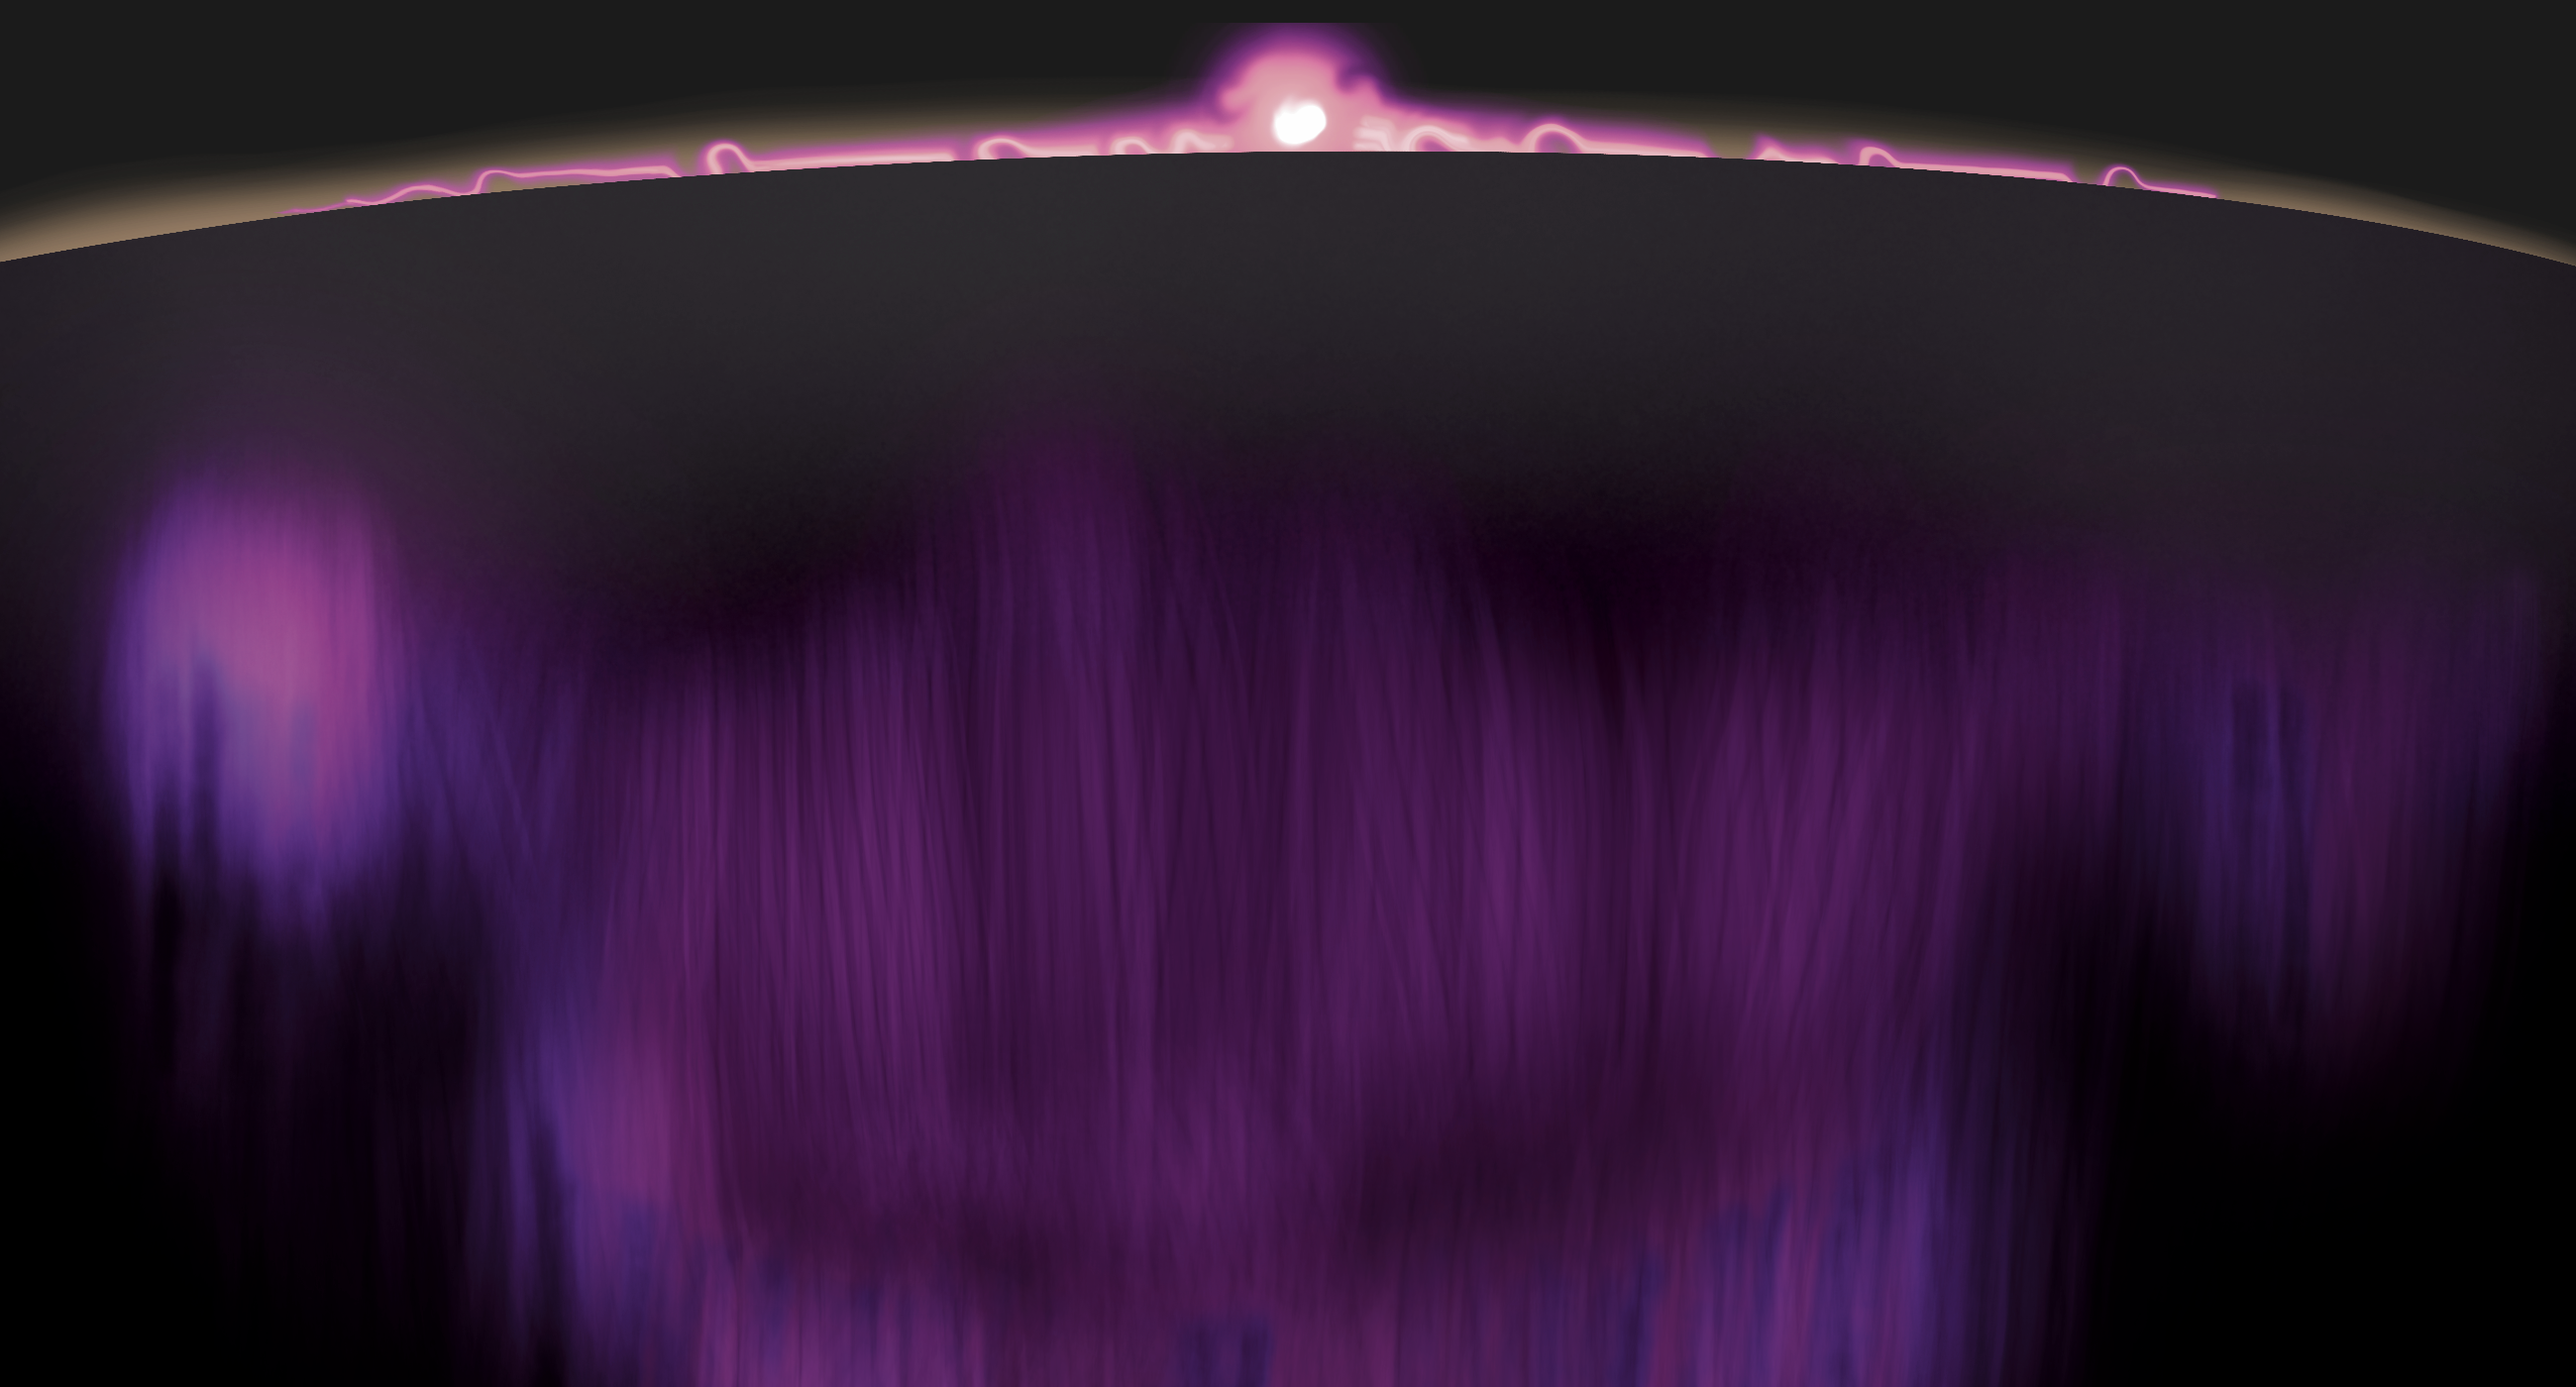
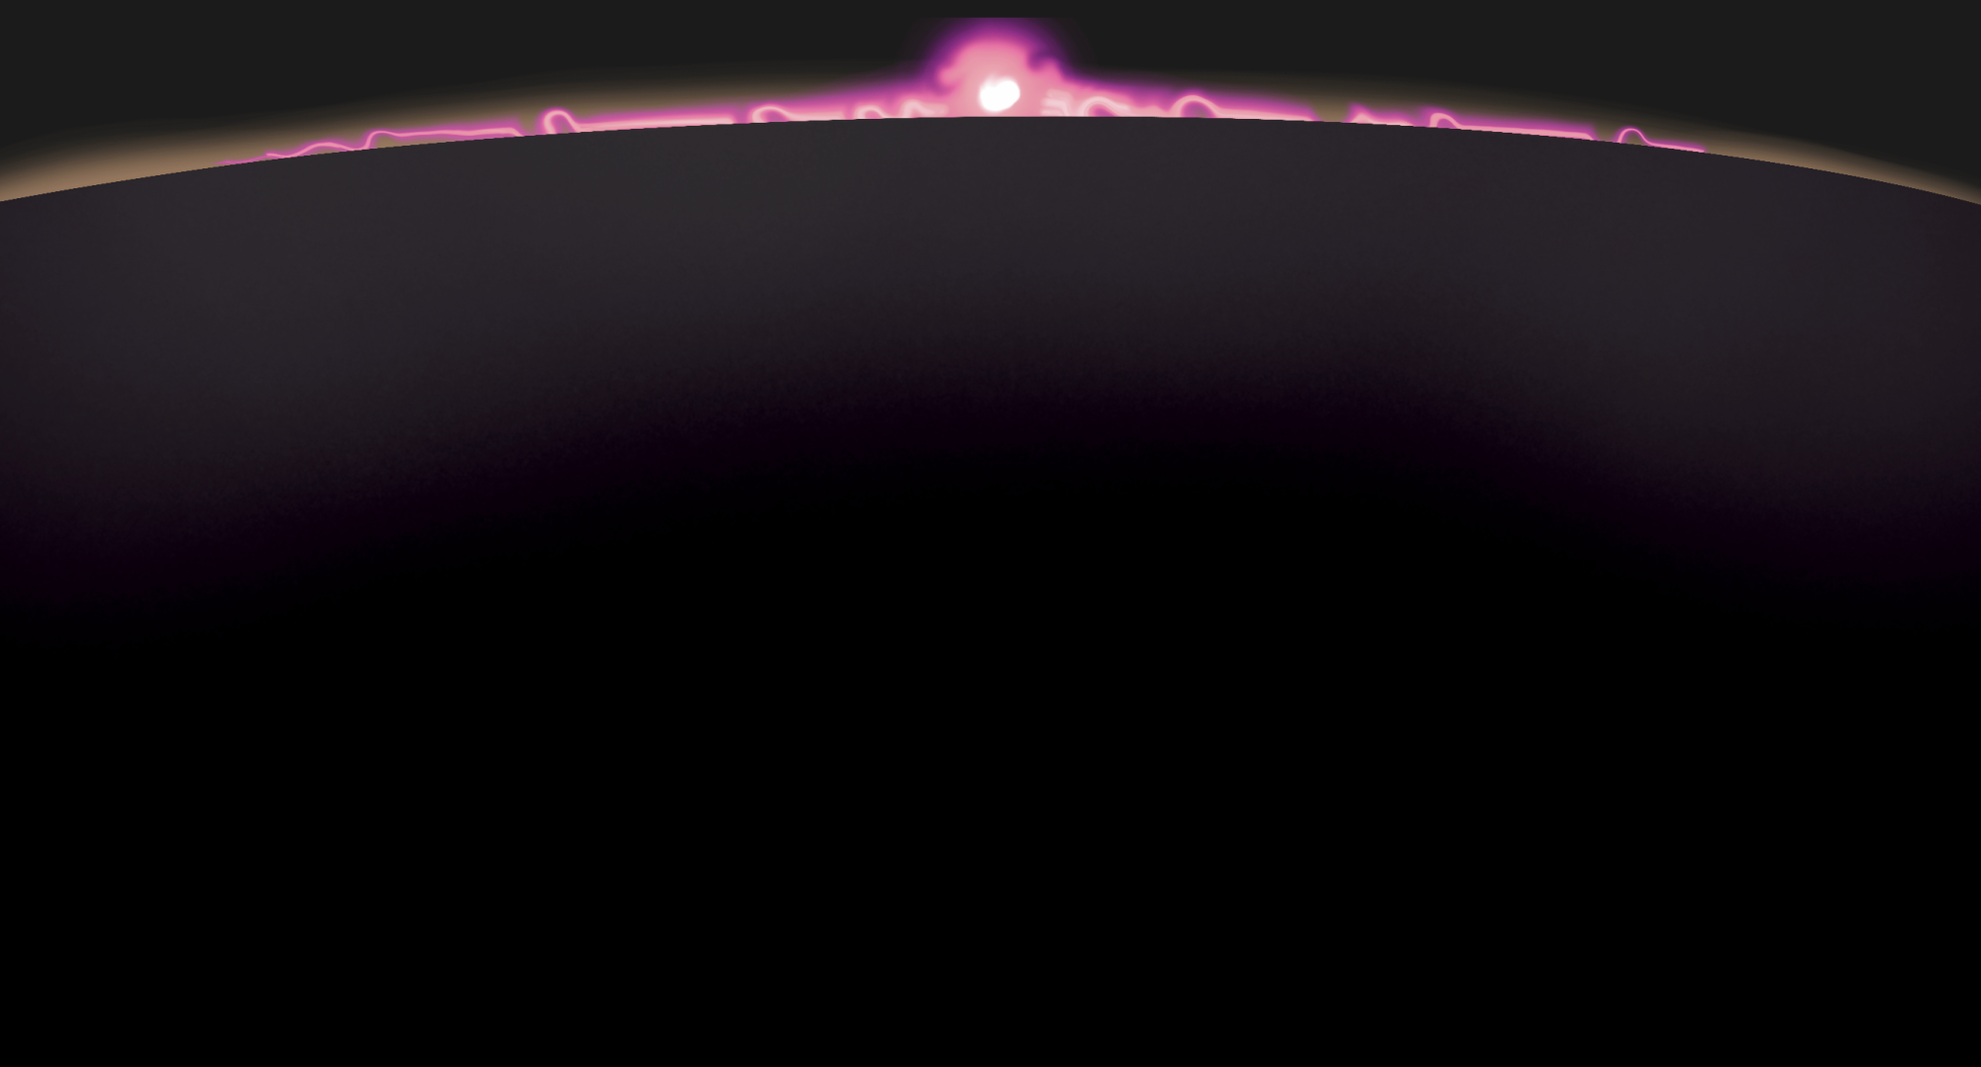
polishing UI

diff --git a/client/src/app/page.tsx b/client/src/app/page.tsx
@@ -247,6 +247,9 @@ export default function Home() {
       <Box display={"flex"} w={1900} h={970} className={"bg-cover bg-center relative justify-center"}
            backgroundImage={`url("${require("@assets/bg.png").default.src}")`}>
         <div className={"w-[70%] h-[70%] scale-[1] translate-y-[50px]  relative flex items-center justify-center"}>
+          <img className={"absolute"} src={require("@assets/flames.png").default.src}/>
+          <img className={"absolute"}  src={require("@assets/clouds.png").default.src}/>
+
           {
             zones.map((zone, index) => <Zone key={index} index={index} isHover={hoverIndex === index} zone={zone}/>)
           }
